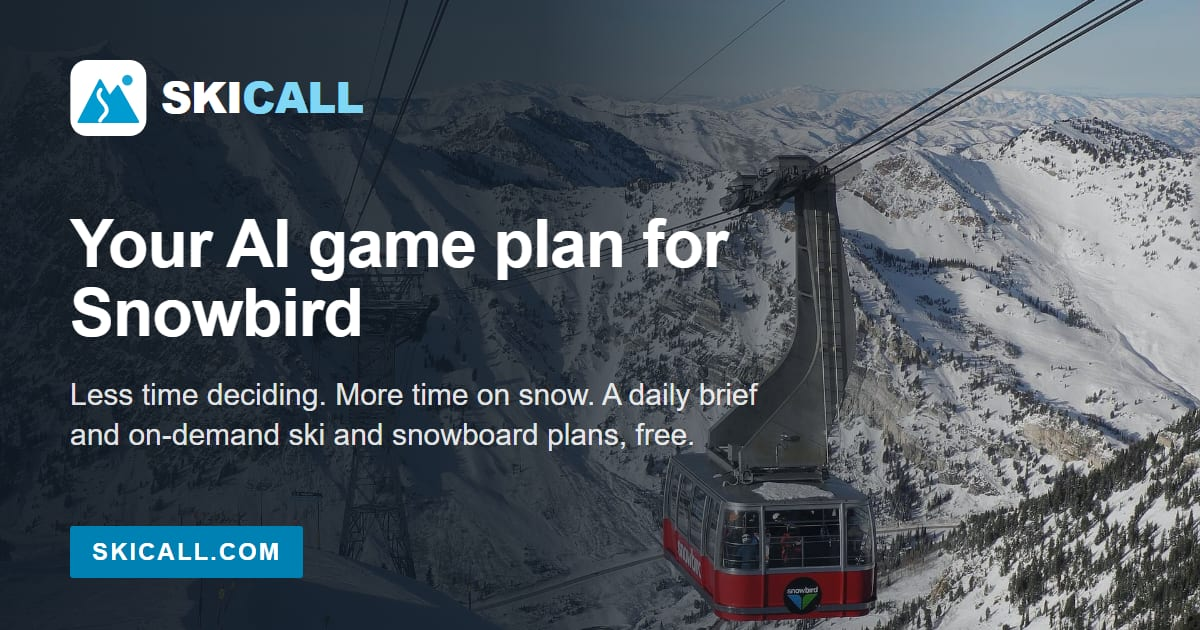
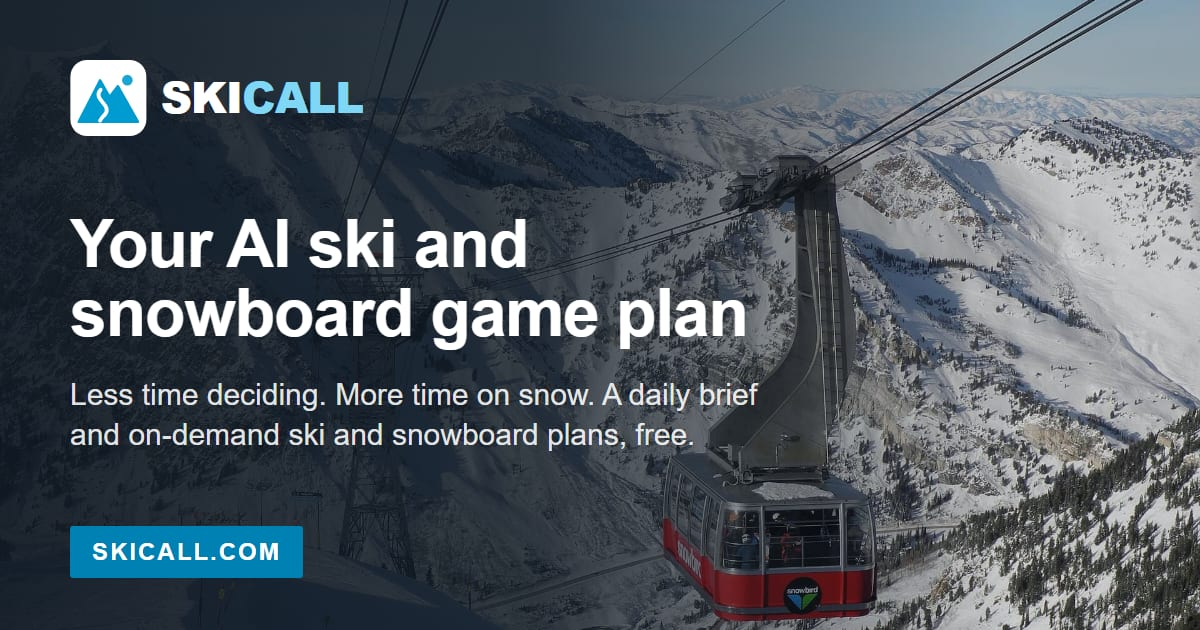
SEO copy: drop Snowbird from titles, descriptions, cards and structured data

Changed region(s): [[0.0617, 0.3317, 0.6475, 0.573]]

diff --git a/index.html b/index.html
@@ -3,24 +3,24 @@
 <head>
   <meta charset="utf-8" />
   <meta name="viewport" content="width=device-width, initial-scale=1" />
-  <title>SkiCall: AI ski and snowboard game plan for Snowbird</title>
-  <meta name="description" content="Free AI game plan for Snowbird: a go-or-skip call, where to park and which lifts to lap for your level, so you spend less time deciding and more time on snow." />
+  <title>SkiCall: your AI ski and snowboard game plan</title>
+  <meta name="description" content="Free AI game plan for skiers and snowboarders: a go-or-skip call, where to park and which lifts to lap, so you spend less time deciding and more time on snow." />
   <link rel="canonical" href="https://skicall.com/" />
   <meta name="robots" content="index,follow,max-image-preview:large" />
   <meta name="theme-color" content="#009bd1" />
   <link rel="manifest" href="site.webmanifest" />
   <meta property="og:type" content="website" />
   <meta property="og:site_name" content="SkiCall" />
-  <meta property="og:title" content="SkiCall: your AI game plan for Snowbird" />
-  <meta property="og:description" content="Less time deciding, more time on snow. A free daily brief and on-demand ski and snowboard plans for Snowbird, built by AI from snow, weather, avalanche, road and parking data." />
+  <meta property="og:title" content="SkiCall: your AI ski and snowboard game plan" />
+  <meta property="og:description" content="Less time deciding, more time on snow. A free daily brief and on-demand ski and snowboard plans, built by AI from snow, weather, avalanche, road and parking data." />
   <meta property="og:url" content="https://skicall.com/" />
   <meta property="og:image" content="https://skicall.com/images/og-skicall.jpg" />
   <meta property="og:image:width" content="1200" />
   <meta property="og:image:height" content="630" />
-  <meta property="og:image:alt" content="SkiCall: your AI game plan for Snowbird, over the Snowbird Tram" />
+  <meta property="og:image:alt" content="SkiCall: your AI ski and snowboard game plan, over the Snowbird Tram" />
   <meta name="twitter:card" content="summary_large_image" />
-  <meta name="twitter:title" content="SkiCall: your AI game plan for Snowbird" />
-  <meta name="twitter:description" content="Less time deciding, more time on snow. A free daily brief and on-demand ski and snowboard plans for Snowbird, built by AI from snow, weather, avalanche, road and parking data." />
+  <meta name="twitter:title" content="SkiCall: your AI ski and snowboard game plan" />
+  <meta name="twitter:description" content="Less time deciding, more time on snow. A free daily brief and on-demand ski and snowboard plans, built by AI from snow, weather, avalanche, road and parking data." />
   <meta name="twitter:image" content="https://skicall.com/images/og-skicall.jpg" />
   <!-- Free Google Fonts, chosen as stand-ins for Glade's paid type:
        Archivo (grotesk, like Synthese), DM Mono (like Calling Code),
@@ -42,14 +42,14 @@
       "name": "SkiCall",
       "url": "https://skicall.com/",
       "logo": "https://skicall.com/icon-512.png",
-      "description": "A free AI game plan for Snowbird skiers and snowboarders: a daily brief and on-demand plans."
+      "description": "A free AI game plan for skiers and snowboarders: a daily brief and on-demand plans."
     },
     {
       "@type": "WebSite",
       "@id": "https://skicall.com/#site",
       "url": "https://skicall.com/",
       "name": "SkiCall",
-      "description": "Free AI game plan for Snowbird: a go-or-skip call, where to park and which lifts to lap for your level, so you spend less time deciding and more time on snow.",
+      "description": "Free AI game plan for skiers and snowboarders: a go-or-skip call, where to park and which lifts to lap, so you spend less time deciding and more time on snow.",
       "inLanguage": "en-US",
       "publisher": {
         "@id": "https://skicall.com/#org"
@@ -162,7 +162,7 @@
         <span class="resort soon">Brighton <em>Soon</em></span>
         <span class="resort soon">Solitude <em>Soon</em></span>
       </div>
-      <p class="lede">SkiCall is a free AI game plan for Snowbird skiers and snowboarders. It reads the snow, weather, avalanche, canyon road and parking data, then tells you whether to go, where to park and which lifts to lap for your level, so you spend less time deciding and more time on the mountain.</p>
+      <p class="lede">SkiCall is a free AI game plan for skiers and snowboarders. It reads the snow, weather, avalanche, canyon road and parking data, then tells you whether to go, where to park and which lifts to lap for your level, so you spend less time deciding and more time on the mountain.</p>
     </div>
   </div>
 

diff --git a/plan.html b/plan.html
@@ -3,24 +3,24 @@
 <head>
   <meta charset="utf-8" />
   <meta name="viewport" content="width=device-width, initial-scale=1" />
-  <title>Build your Snowbird ski and snowboard plan | SkiCall</title>
-  <meta name="description" content="Tell us when you arrive and how you ski. Get a free AI ski or snowboard plan for Snowbird by email in minutes: where to park, which lifts to lap." />
+  <title>Build your ski and snowboard plan | SkiCall</title>
+  <meta name="description" content="Tell us when you arrive and how you ski. Get a free AI ski or snowboard plan by email in minutes: where to park, which lifts to lap." />
   <link rel="canonical" href="https://skicall.com/plan.html" />
   <meta name="robots" content="index,follow,max-image-preview:large" />
   <meta name="theme-color" content="#009bd1" />
   <link rel="manifest" href="site.webmanifest" />
   <meta property="og:type" content="website" />
   <meta property="og:site_name" content="SkiCall" />
-  <meta property="og:title" content="Build your Snowbird ski and snowboard plan" />
-  <meta property="og:description" content="Answer a few quick questions and get a free AI ski or snowboard plan for Snowbird by email in minutes, so you spend more of your day on snow." />
+  <meta property="og:title" content="Build your ski and snowboard plan" />
+  <meta property="og:description" content="Answer a few quick questions and get a free AI ski or snowboard plan by email in minutes, so you spend more of your day on snow." />
   <meta property="og:url" content="https://skicall.com/plan.html" />
   <meta property="og:image" content="https://skicall.com/images/og-skicall.jpg" />
   <meta property="og:image:width" content="1200" />
   <meta property="og:image:height" content="630" />
-  <meta property="og:image:alt" content="SkiCall: your AI game plan for Snowbird, over the Snowbird Tram" />
+  <meta property="og:image:alt" content="SkiCall: your AI ski and snowboard game plan, over the Snowbird Tram" />
   <meta name="twitter:card" content="summary_large_image" />
-  <meta name="twitter:title" content="Build your Snowbird ski and snowboard plan" />
-  <meta name="twitter:description" content="Answer a few quick questions and get a free AI ski or snowboard plan for Snowbird by email in minutes, so you spend more of your day on snow." />
+  <meta name="twitter:title" content="Build your ski and snowboard plan" />
+  <meta name="twitter:description" content="Answer a few quick questions and get a free AI ski or snowboard plan by email in minutes, so you spend more of your day on snow." />
   <meta name="twitter:image" content="https://skicall.com/images/og-skicall.jpg" />
   <link rel="preconnect" href="https://fonts.googleapis.com" />
   <link rel="preconnect" href="https://fonts.gstatic.com" crossorigin />
@@ -35,7 +35,7 @@
   "@type": "WebApplication",
   "name": "SkiCall on-demand ski and snowboard plan",
   "url": "https://skicall.com/plan.html",
-  "description": "Tell us when you arrive and how you ski. Get a free AI ski or snowboard plan for Snowbird by email in minutes: where to park, which lifts to lap.",
+  "description": "Tell us when you arrive and how you ski. Get a free AI ski or snowboard plan by email in minutes: where to park, which lifts to lap.",
   "applicationCategory": "LifestyleApplication",
   "operatingSystem": "Any (web browser)",
   "inLanguage": "en-US",
@@ -44,10 +44,6 @@
     "@type": "Offer",
     "price": "0",
     "priceCurrency": "USD"
-  },
-  "areaServed": {
-    "@type": "Place",
-    "name": "Snowbird, Utah"
   },
   "publisher": {
     "@id": "https://skicall.com/#org"
